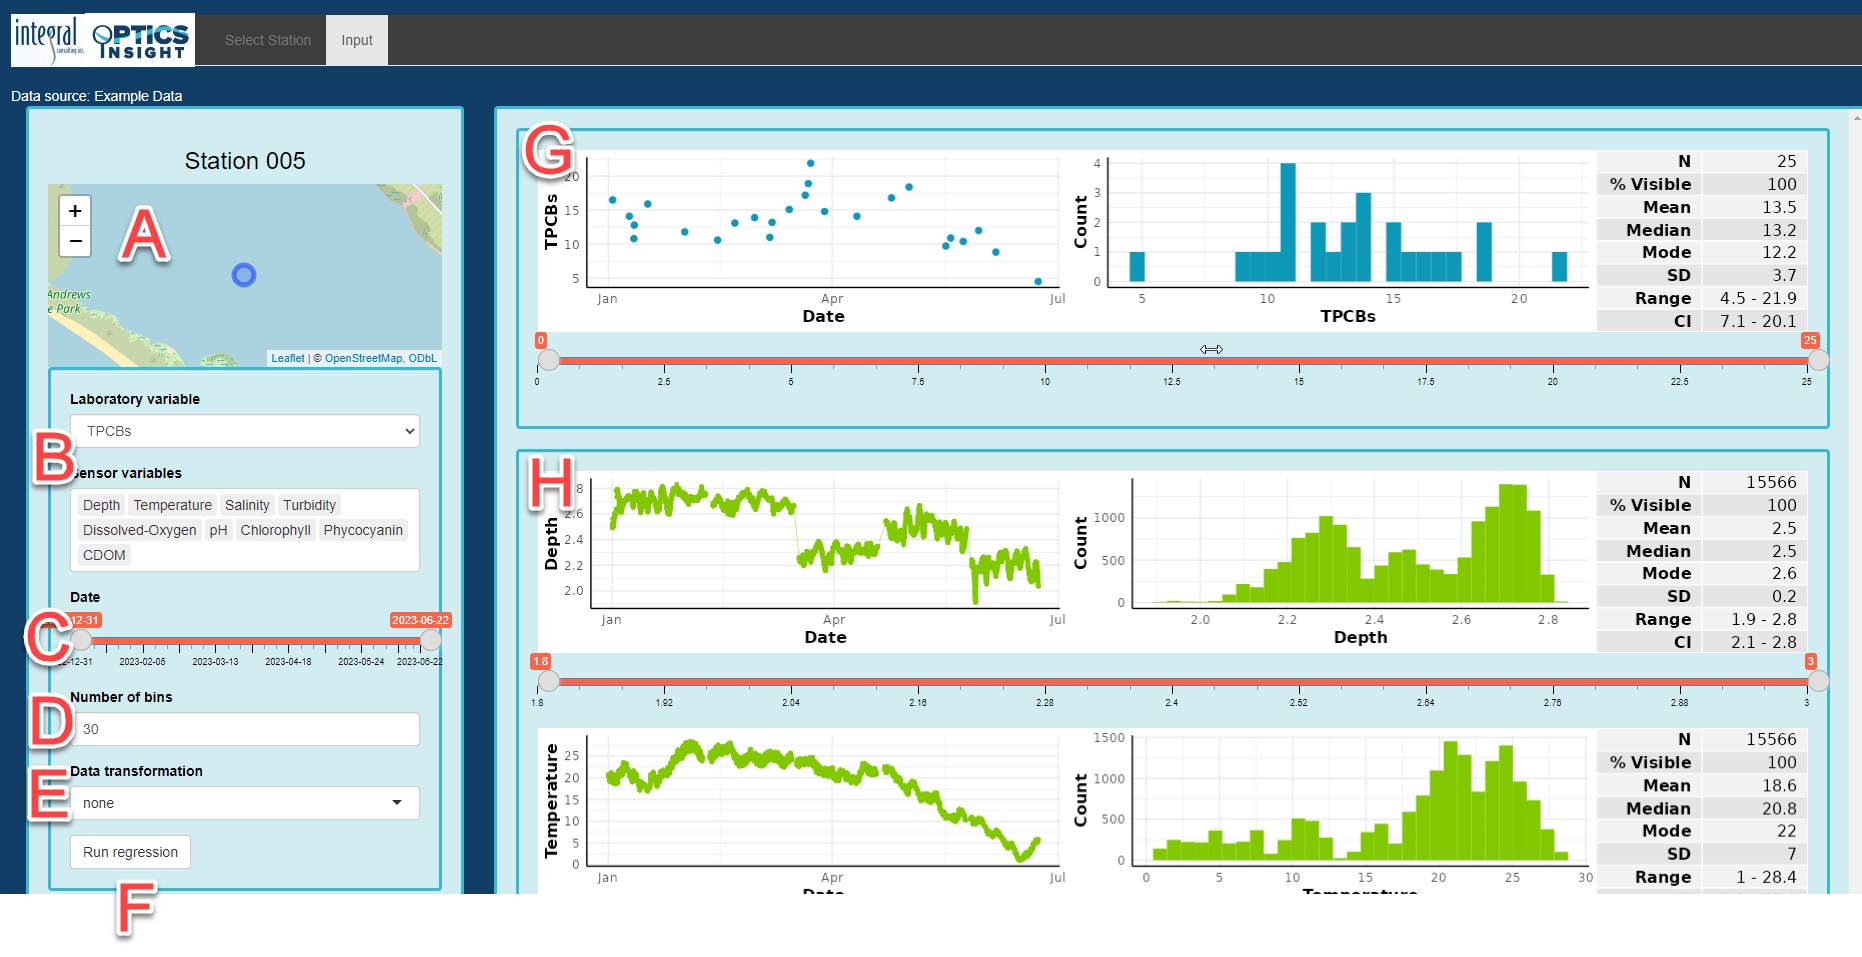
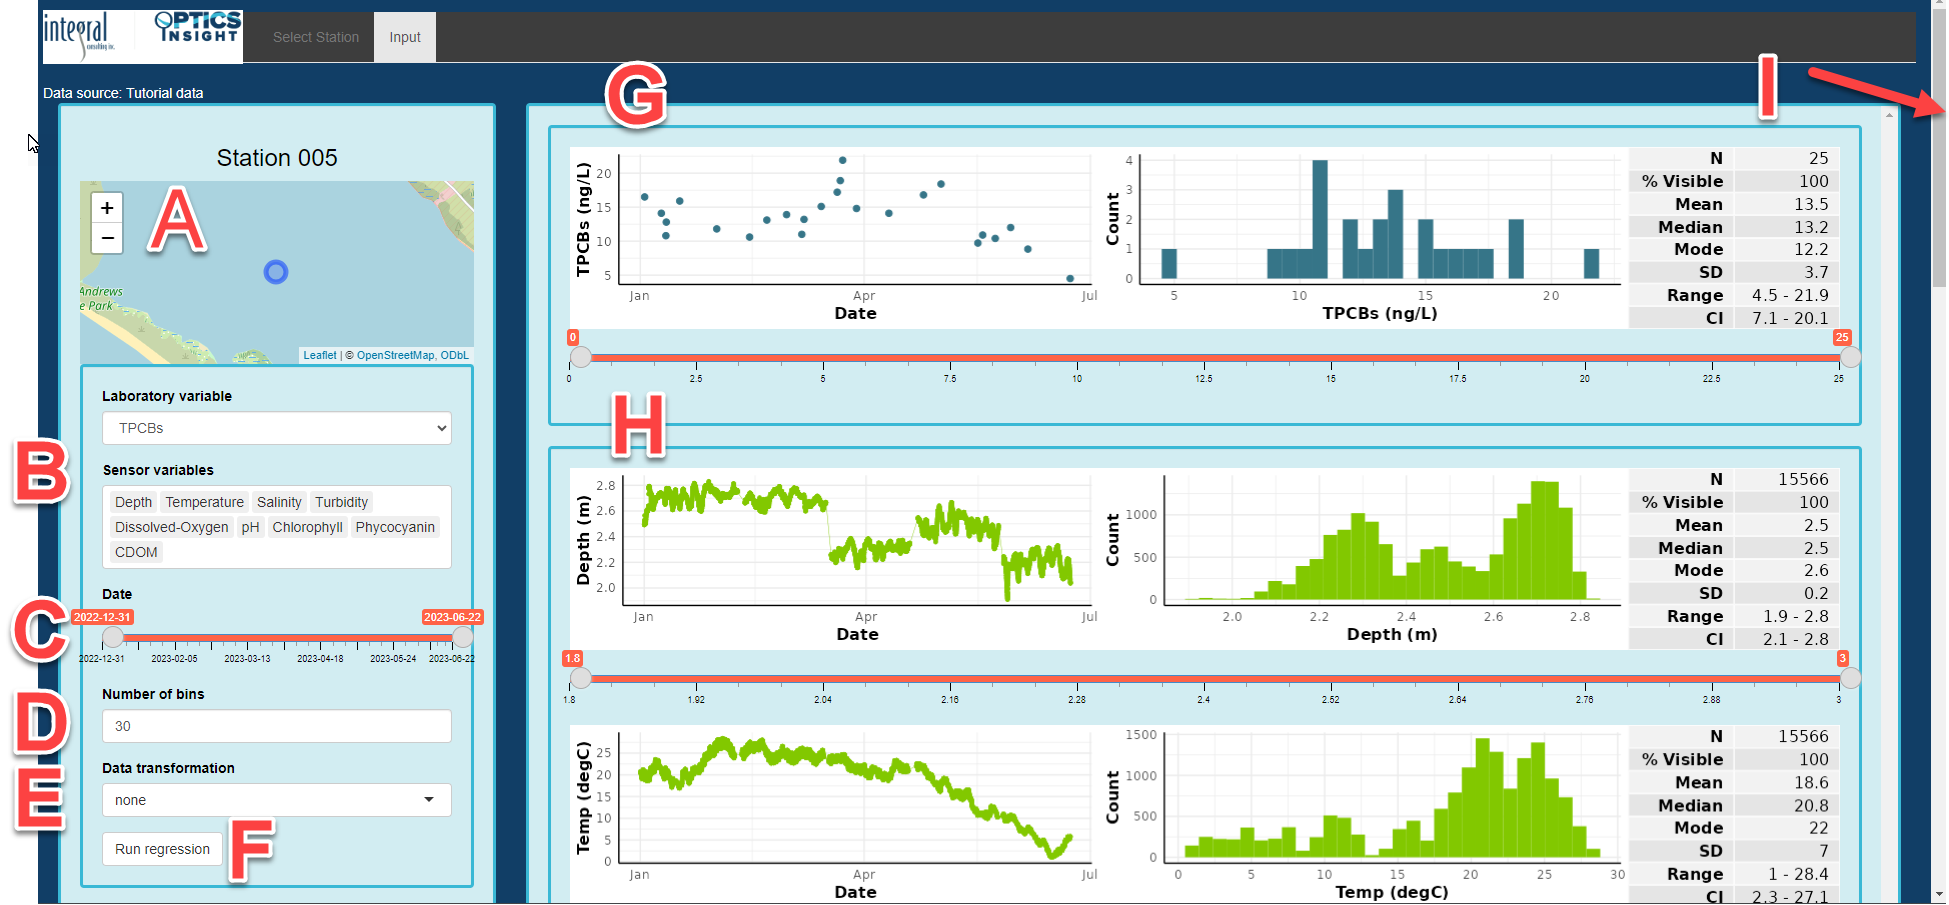
Updates after external reviewer feedback

diff --git a/docs/tutorial.html b/docs/tutorial.html
@@ -197,7 +197,7 @@ ul.task-list li input[type="checkbox"] {
 <p>The next steps take you through data visualization. This data consists of all data that was made available in the provided folder, and in this instance, all environmental and contaminant variables that are contributing to the demonstration. For additional information regarding file format and required csv structure, visit the “Getting Started” section. When you click on the “Station 005” above, the “Input” tab will display with the following details:</p>
 <ul>
 <li><p>A) Station location map for reference</p></li>
-<li><p>B) List of laboratory (contaminant) and sensor (environmental) variables available for this station. A global date-time sliding scale controls the temporal query for all values. The number of bins and data transformation controlling regression analysis is in this section as well. For additional details on this section, visit the “Reviewing Data” section from the menu.</p></li>
+<li><p>B) List of laboratory (contaminant) and sensor (environmental) variables available for this station. You can select one sensor variable at a time to delete it from the list. If you want to add it back into the list, place your cursor after the last variable and move the cursor using the arrows on the keyboard to a place in between two variables where you want to add it, then start typing the variable name and select from the drop-down menu. A global date-time sliding scale controls the temporal query for all values. The number of bins and data transformation controlling regression analysis is in this section as well. For additional details on this section, visit the “Reviewing Data” section from the menu.</p></li>
 <li><p>C) Time-series and histogram plots of the selected laboratory variable along with sliding selector to query specific values. The laboratory variable displayed is the one selected in section “B.”</p></li>
 <li><p>D) Plot of all sensor variables in the order they are displayed in the box under section B. You can move their location to change the order of these time-series/histogram plots. The range of values for each of the variables can be independently queried and is carried forward to regression analysis.</p></li>
 </ul>
@@ -206,11 +206,11 @@ ul.task-list li input[type="checkbox"] {
 <ol start="5" type="1">
 <li><p>On the left-hand “Station 005,” highlight “Turbidity” so it turns dark blue and delete this variable from the list (by simply hitting the delete button). Then select “Phycocyanin” and “pH” individually and delete each of those as well. Move the beginning date slider to “2023-02-05,” and your screen should look like this:</p>
 <p><img src="images/5-select-variables-initial.png" class="img-fluid" width="280"></p></li>
-<li><p>Now, add in one of the variables you deleted (assuming you forgot you required it!) by clicking in the “Sensor Variables” box to reveal the blinking cursor line. Move your cursor to the left so it is in between “Temperature” and “Salinity” and a drop-down menu will appear with the options of variables you can add. Select “pH” and it should then appear in the space between “Temperature” and “Salinity.”<img src="images/5-variable-mods.png" class="img-fluid"></p></li>
+<li><p>Now, add in one of the variables you deleted (assuming you forgot you required it!) by clicking in the “Sensor Variables” box to reveal the blinking cursor line. Move your cursor to the left (using the arrows on the keyboard, not with your mouse) so it is in between “Temperature” and “Salinity” and a drop-down menu will appear with the options of variables you can add. Select “pH” and it should then appear in the space between “Temperature” and “Salinity.” NOTE: you cannot drag and reorder variables, but instead have to delete one, then proceed with moving your cursor using the keyboard arrows to the place where you want to add it.<img src="images/5-variable-mods.png" class="img-fluid"></p></li>
 </ol>
 <ul>
-<li><p>In the plot section, review the laboratory and sensor variables to get a sense of the data. Under “Depth” move the initial selection slider to a value of “2.00004” to select only those values that occur at depths greater than that value (the slider should naturally land on this value when you scroll it to the right). You will notice the pulsing bar at the top will indicate it is updating the other datasets to include these query criteria as well. When the pulsing stops, review the datasets to see how the values of each of the variables have changed.</p></li>
-<li><p>You will notice that if you query a variable using a selection slider, that change will be applied to all variables as associated data points will be eliminated from subsequent analysis. For instance, before shifting the depth, there was an “N” of 12,124 for all sensor variables. After reducing the depth dataset, the “N” value is reduced to 12,083. The same will apply to all sensor variable datasets that are restricted in range.</p></li>
+<li><p>In the plot section, review the laboratory and sensor variables to get a sense of the data. Under “Depth” move the initial selection slider to a value of “2.3001” to select only those values that occur at depths greater than that value (the slider should naturally land on this value when you scroll it to the right). You will notice the pulsing bar at the top will indicate it is updating the other datasets to include these query criteria as well. When the pulsing stops, review the datasets to see how the values of each of the variables have changed.</p></li>
+<li><p>You will notice that if you query a variable using a selection slider, that change will be applied to all variables as associated data points will be eliminated from subsequent analysis. For instance, before shifting the depth, there was an “N” of 12,124 for all sensor variables. After reducing the depth dataset, the “N” value is reduced to 8,317. The same will apply to all sensor variable datasets that are restricted in range, and the laboratory variable will be restricted to those values associated with the available sensor variable data.</p></li>
 </ul>
 <p><img src="images/6-depth-query.png" class="img-fluid" width="663"></p>
 </section>

diff --git a/docs/analysis.html b/docs/analysis.html
@@ -187,17 +187,17 @@ ul.task-list li input[type="checkbox"] {
 <section id="regression-results" class="level3">
 <h3 class="anchored" data-anchor-id="regression-results">Regression Results</h3>
 <p>The results from an analysis run are summarized in tabular and graphical format on the “Regression” tab. In the results figure below:</p>
-<p>A) List of available regression analyses and “Save results” button to download output from analyses.</p>
+<p>A) List of available regression analyses and “Save results” button to download output from analyses. The date, time and transformation (“none” meaning no transformation) is stored in the filename for each run. The date and time is in GMT, as the processing is done virtually and cannot access your local computer time.</p>
 <p>B) Table of OPTICS performance statistical metrics including:</p>
 <ul>
 <li><p>N = Number of samples included in the calculation of statistical metrics.</p></li>
-<li><p>% var = Percent variance explained, or the proportion to which the OPTICS model accounts for the variation in the data set.</p></li>
-<li><p>r = Correlation coefficient (Pearson’s R), a result from linear regression that is a measure of the linear correlation between two variables (i.e., how well data1 are correlated to data2), assuming that both data1 and data2 may contain some error.</p></li>
-<li><p>Slope = Model II Slope, a result from linear regression that represents the rate of co-variance in data1 and data2. Model II regressions assume that both data1 and data2 may contain some error. A value of 1.0 indicates no bias <em>in the best-fit regression line</em>; however, it is important to note that the Slope is not a measure of bias in the model or discrete sample data.</p></li>
-<li><p>Median Ratio = Median value of the ratio of data1 to data2; i.e., median of (data1 / data2), a measure of overall over- or under-prediction of a model. A Bias value of 1.0 indicates no bias. Bias is unitless.</p></li>
-<li><p>Median abs % error = median value of the absolute percent difference between data1 and data2; i.e., Median abs % error &nbsp;= 100 * |data1 – data2| / data2.&nbsp; Median abs % error is a measure of random error. A mean abs % error value of zero indicates no random error.</p></li>
+<li><p>% var = Percent variance explained, or the proportion to which the OPTICS model accounts for the variation in the data set. A higher percentage of variance explained indicates that the OPTICS model can better predict or capture the variability present in the data set. Conversely, a lower percentage suggests that the model may not adequately capture the complexity or underlying structure of the data.</p></li>
+<li><p>r = Correlation coefficient (Pearson’s R), a result from linear regression that is a measure of the linear correlation between two variables (i.e., how well data1 are correlated to data2), assuming that both data1 and data2 may contain some error. The values of r that indicate the best model fit are typically close to 1 or -1, suggesting a strong positive or negative linear relationship respectively, between the two variables.</p></li>
+<li><p>Slope = Model II Slope, a result from linear regression that represents the rate of co-variance in data1 and data2. Model II regressions assume that both data1 and data2 may contain some error. A value of 1.0 indicates no bias <em>in the best-fit regression line</em> signifying optimal model fit; however, it is important to note that the Slope is not a measure of bias in the model or discrete sample data. Therefore, while a Slope of 1.0 suggests ideal alignment, other metrics should also be considered to comprehensively evaluate model performance.</p></li>
+<li><p>Median Ratio = Median value of the ratio of data1 to data2; i.e., median of (data1 / data2), a measure of overall over- or under-prediction of a model. A Bias value of 1.0 indicates no bias, with values deviating from 1.0 indicating over- or underestimation of the tendencies of the model. Bias is unitless.</p></li>
+<li><p>Median abs % error = median value of the absolute percent difference between data1 and data2; i.e., Median abs % error &nbsp;= 100 * |data1 – data2| / data2.&nbsp; Median abs % error is a measure of random error. A mean abs % error value of zero indicates no random error, suggesting better model performance.</p></li>
 <li><p>RMSE = Root mean square error, a measure of the differences between data1 and data2. RMSE = <img src="images/RMSE.png" class="img-fluid"></p>
-<p>The RMSE aggregates the magnitudes of the errors in model predictions in a single measure of predictive power and is a good measure of model accuracy. RMSE is in the same units as the input data.</p></li>
+<p>The RMSE aggregates the magnitudes of the errors in model predictions in a single measure of predictive power and is a good measure of model accuracy. RMSE is in the same units as the input data. Lower values of RMSE indicate better model performance, with RMSE = 0 indicating&nbsp;optimal model performance.</p></li>
 </ul>
 <p>C) Filter setting associated with the regression analysis as determined from the “Input” tab when data were filtered.</p>
 <p>D) The left-most figure shows the proportion to which the OPTICS model accounts for variation in the data set (i.e., percent variance) as a function of number of model components. The middle figure shows the mean squared error of model predictions (MSEP) as a function of number of model components. In the left and middle figures, the largest number represented by square symbols is the number of components at which MSEP is minimized and is the number of components used to generate OPTICS model results (shown in the right-hand plot and time series figure below). The right-most figure is a modeled versus measured scatterplot and the dashed line is the 1:1 line.</p>

diff --git a/docs/datareview.html b/docs/datareview.html
@@ -178,7 +178,7 @@ ul.task-list li input[type="checkbox"] {
 <p><strong>NOTE: The example data is artificial and generated to demonstrate OPTICS capabilities only. The locations are arbitrarily selected.</strong></p>
 <p>The “Input” window is composed of the following elements:</p>
 <p>A) Station location map for the selected dataset</p>
-<p>B) List of laboratory (contaminant) and sensor (environmental) variables available for this station. Note that all variables that are selected in this window will be used in the regression analysis.</p>
+<p>B) List of laboratory (contaminant) and sensor (environmental) variables available for this station. Note that all variables that are selected in this window will be used in the regression analysis. You can select one sensor variable at a time to delete it from the list. If you want to add it back into the list, place your cursor after the last variable and move the cursor using the arrows on the keyboard to a place in between two variables where you want to add it, then start typing the variable name and select from the drop-down menu. NOTE: you cannot drag and reorder variables, but instead have to delete one, then proceed with moving your cursor using the keyboard arrows to the place where you want to add it.</p>
 <p>C) A global date-time sliding scale that allows for temporal selection of data. The date-time scale can be changed at both ends to specify the period of interest for analysis.</p>
 <p>D) The “Number of bins” controls the histogram plots and can be adjusted to assist the user to better review and understand the data. This is simply for reviewing the data, and does not physically bin the data in any way.</p>
 <p>E) The “Data transformation” tab provides the user with the option of performing either a log transformation or square root transformation of the data. This setting will adjust the figures of each of the variables in the space to the right, and will carry through to the regression analysis. The user is expected to apply a transformation when deemed appropriate for their dataset.</p>
